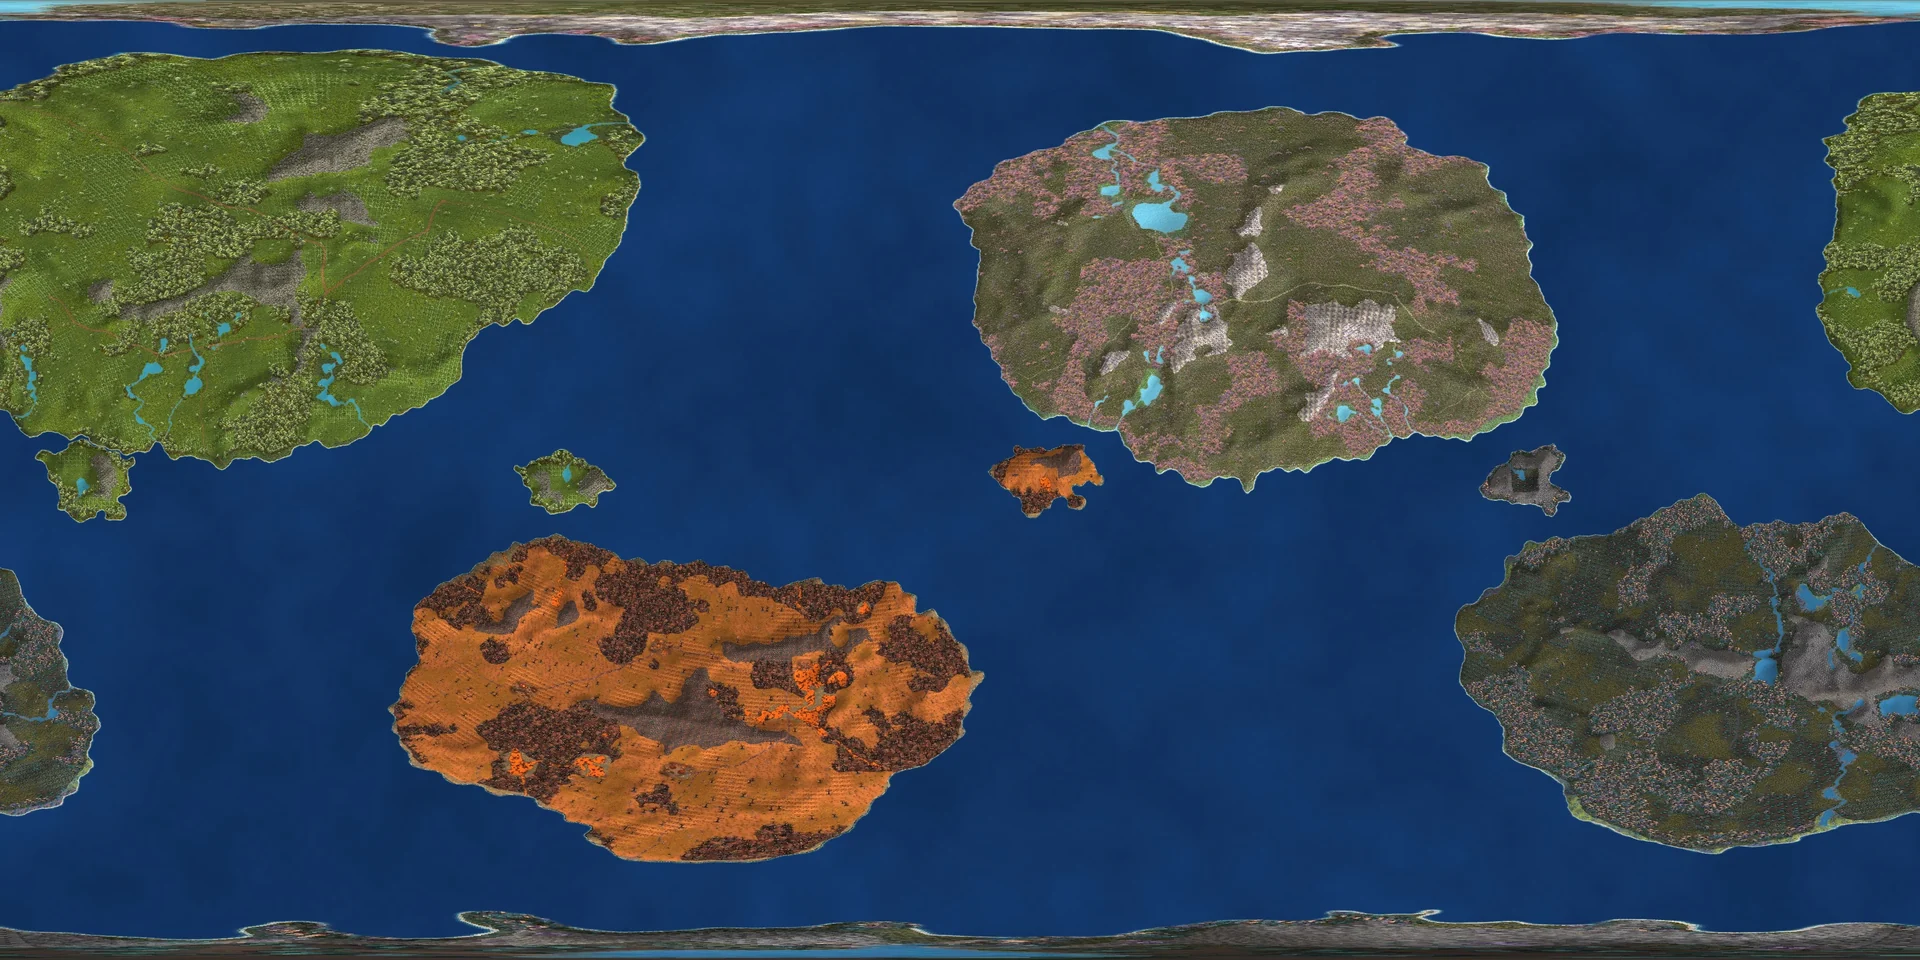
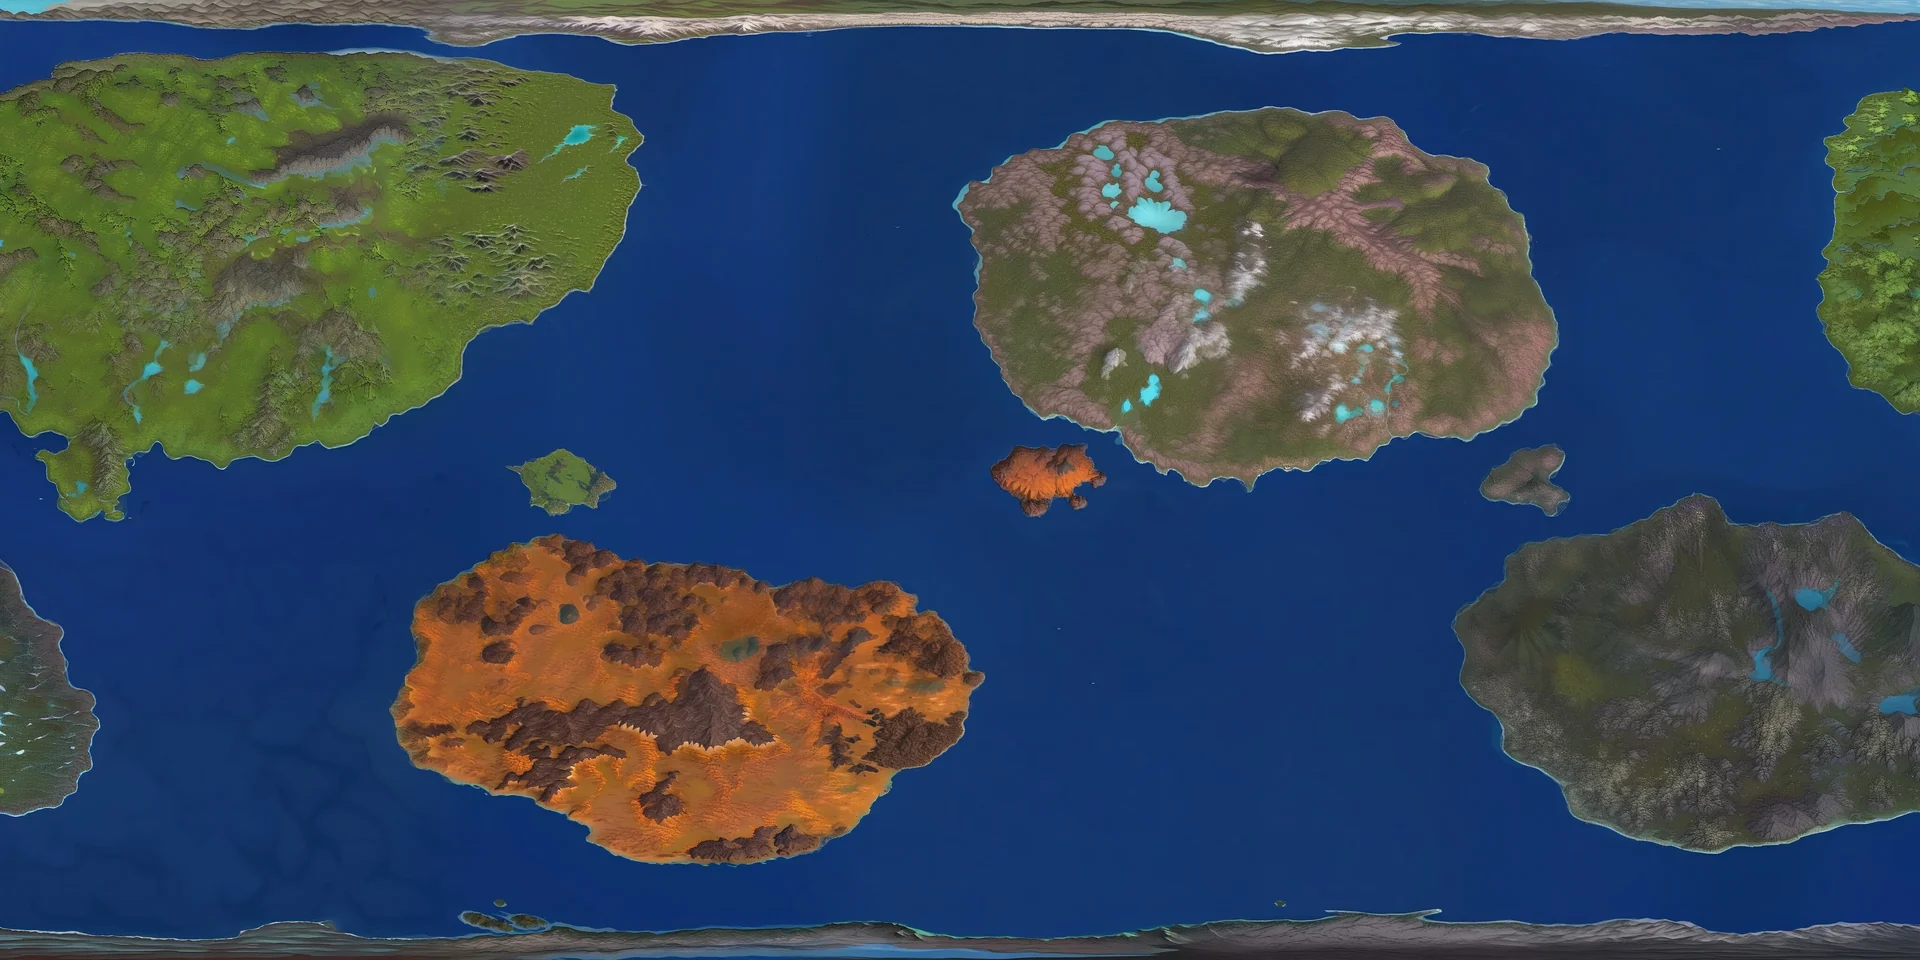
feat(mapa-v2): painted 45%-land planet in the existing atlas and globe (opt-in ?ki-world-v2=1)
globe-equirect.webp repainted on the GPU in tiles with the old atlas as IP-Adapter style
reference; build_v2_atlas.py traces region outlines from the v2 land labels and
build_globe_textures.py --v2 derives the globe maps. Old zone and settlement pins are hidden
on the v2 atlas.

Claude-Session: https://claude.ai/code/session_01NQGXpQc6YEdw4PvKeRNkrU

diff --git a/src/components/planet-map/planet-map.css b/src/components/planet-map/planet-map.css
@@ -949,3 +949,11 @@ html[data-ki-world-v2] .pm-details {
   max-height: none;
   padding-bottom: 8px;
 }
+/* Zones and settlement pins belong to the old atlas geography; the v2 atlas shows the land only. */
+html[data-ki-world-v2] .pm-zone,
+html[data-ki-world-v2] .pm-settlement {
+  display: none;
+}
+html[data-ki-world-v2] .pg-zone {
+  display: none;
+}

diff --git a/scripts/worldgen/v2/build_v2_atlas.py b/scripts/worldgen/v2/build_v2_atlas.py
@@ -1,6 +1,6 @@
 #!/usr/bin/env python3
 """World v2 atlas for /mapa (preview ?ki-world-v2=1): the painted equirectangular planet of the v2
-geometry (deliveries/world-v2-art/maps/globe-equirect.webp, 45% land) plus traced region outlines.
+geometry (deliveries/world-v2-art/maps/globe-painted.webp: globe-equirect.webp repainted on the GPU with the old atlas as style reference, 45% land) plus traced region outlines.
 
   python3 scripts/worldgen/v2/build_v2_atlas.py && python3 scripts/build_globe_textures.py --v2
 Writes src/assets/planet-map/atlas-v2-{1920,3840}.webp, src/components/planet-map/atlasRegions.v2.json
@@ -20,7 +20,7 @@ from migration_preview import decode  # noqa: E402
 P = ROOT / 'public/game/worlds/superior-v2-prototype'
 ASSETS = ROOT / 'src/assets/planet-map'
 MW, MH = 2000, 1000
-src = Image.open(ROOT / 'deliveries/world-v2-art/maps/globe-equirect.webp').convert('RGB')
+src = Image.open(ROOT / 'deliveries/world-v2-art/maps/globe-painted.webp').convert('RGB')
 src.resize((3840, 1920), Image.LANCZOS).save(ASSETS / 'atlas-v2-3840.webp', 'WEBP', quality=88, method=6)
 src.resize((1920, 960), Image.LANCZOS).save(ASSETS / 'atlas-v2-1920.webp', 'WEBP', quality=86, method=6)
 m = read(P / 'sphere-chunks.json'); labels = np.zeros((m['height'], m['width']), np.uint8)
